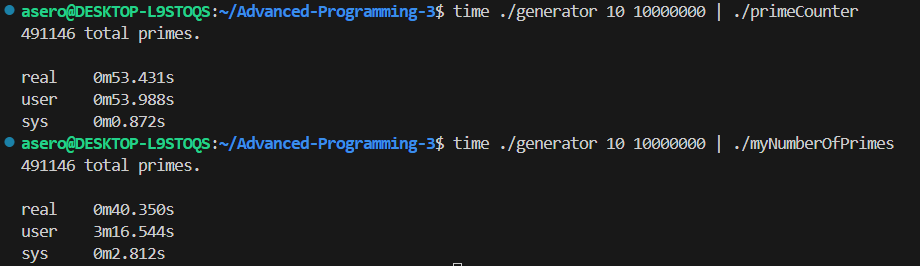
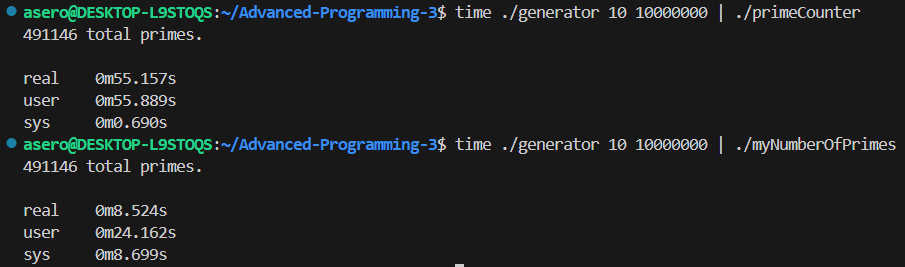
Improved runtime

diff --git a/myNumberOfPrimes.c b/myNumberOfPrimes.c
@@ -1,71 +1,236 @@
+// #include <stdio.h>
+// #include <stdlib.h>
+// #include <pthread.h>
+// #include <unistd.h>
+// #include <stdatomic.h>
+// #include "modularArithmetic.h"
+// #include "primality.h"
+// #include "myNumberOfPrimes.h"
+
+
+// /**
+//  * Thread function to process a range of numbers and count how many are prime.
+//  * Each thread processes its own range and updates a shared prime count.
+//  * 
+//  * @param args Pointer to ThreadData structure containing start, end indices and a pointer to the prime count.
+//  * @return Nothing is returned because the function is designed to handle processing in an infinite loop or until EOF.
+//  */
+// void* thread_function(void* args) {
+//     ThreadData* data = (ThreadData*)args;  // Cast the void pointer back to ThreadData structure pointer.
+//     int number;
+
+//     // Infinite loop to continuously process numbers.
+//     while (1) {
+//         int start = atomic_load(&data->startIndex);  // Load the start index atomically to prevent data races.
+//         int end = atomic_load(&data->endIndex);  // Load the end index atomically.
+
+//         // Iterate over the range from start to end indices.
+//         for (int i = start; i <= end; i++) {
+//             // Read integers from stdin until EOF.
+//             if (scanf("%d", &number) != EOF) {
+//                 // Check if the number is prime and increment the count if it is.
+//                 if (is_prime(number, 4))  // The second parameter '4' stands for the number of checks in Miller-Rabin test.
+//                     (*data->primeCount)++;
+//             } else {
+//                 pthread_exit(NULL);  // Exit the thread if EOF is reached or input fails.
+//             }
+//         }
+
+//         // Update start and end indices for the next segment of numbers.
+//         atomic_store(&data->startIndex, start + THREAD_COUNT * SEGMENT_SIZE);
+//         atomic_store(&data->endIndex, end + THREAD_COUNT * SEGMENT_SIZE);
+//     }
+// }
+
+// int main() {
+//     int answer = 0;  // This variable will hold the total number of prime numbers found.
+//     pthread_t threadIDs[THREAD_COUNT];  // Array to hold thread identifiers.
+//     ThreadData threadData[THREAD_COUNT];  // Array of ThreadData structures for each thread.
+
+//     // Initialize each thread's data and create the threads.
+//     for (int i = 0; i < THREAD_COUNT; i++) {
+//         atomic_init(&threadData[i].startIndex, i * SEGMENT_SIZE + 1);  // Initialize the start index atomically.
+//         atomic_init(&threadData[i].endIndex, (i + 1) * SEGMENT_SIZE);  // Initialize the end index atomically.
+//         threadData[i].primeCount = malloc(sizeof(int));  // Allocate memory for the prime count.
+//         *threadData[i].primeCount = 0;  // Initialize the prime count to zero.
+
+//         // Create each thread passing in the address of the corresponding ThreadData structure.
+//         pthread_create(&threadIDs[i], NULL, thread_function, &threadData[i]);
+//     }
+
+//     // Wait for all threads to complete and aggregate the results.
+//     for (int i = 0; i < THREAD_COUNT; i++) {
+//         pthread_join(threadIDs[i], NULL);  // Wait for thread termination.
+//         answer += *threadData[i].primeCount;  // Add up the prime counts from each thread.
+//         free(threadData[i].primeCount);  // Free the allocated memory for prime counts.
+//     }
+
+//     printf("%d total primes.\n", answer);  // Print the total number of primes found.
+//     return 0;
+    
+// }
+
 #include <stdio.h>
 #include <stdlib.h>
 #include <pthread.h>
 #include <unistd.h>
 #include <stdatomic.h>
-#include "modularArithmetic.h"
-#include "primality.h"
-#include "myNumberOfPrimes.h"
 
+#define NUM_THREADS 5
+#define CHUNK_SIZE 2000000
 
-/**
- * Thread function to process a range of numbers and count how many are prime.
- * Each thread processes its own range and updates a shared prime count.
- * 
- * @param args Pointer to ThreadData structure containing start, end indices and a pointer to the prime count.
- * @return Nothing is returned because the function is designed to handle processing in an infinite loop or until EOF.
- */
-void* thread_function(void* args) {
-    ThreadData* data = (ThreadData*)args;  // Cast the void pointer back to ThreadData structure pointer.
-    int number;
+struct ThreadArgs {
+    atomic_int start; // starting index for the thread
+    atomic_int end;  // ending index for the thread
+    int* local_counter; // local counter for prime numbers found by the thread
+};
 
-    // Infinite loop to continuously process numbers.
-    while (1) {
-        int start = atomic_load(&data->startIndex);  // Load the start index atomically to prevent data races.
-        int end = atomic_load(&data->endIndex);  // Load the end index atomically.
+long long multiply_mod(long long a, long long b, long long mod) // modular multiplication
+{
+    long long result = 0;
+    long long y = a % mod;
+    while (b > 0) 
+    {
+        if (b % 2 == 1)
+            result = (result + y) % mod;
+        y = (y * 2) % mod;
+        b /= 2;
+    }
+    return result % mod;
+}
 
-        // Iterate over the range from start to end indices.
+long long modular_exponentiation(long long base, long long exponent, long long mod) // modular exponentiation
+{
+    long long result = 1;
+    long long y = base;
+    while (exponent > 0) 
+    {
+        if (exponent % 2 == 1)
+            result = (result * y) % mod;
+        y = (y * y) % mod;
+        exponent /= 2;
+    }
+    return result % mod;
+}
+
+/*
+Miller-Rabin Primality Test:
+
+Input: p (number to be tested for primality), iter (number of iterations)
+
+1. If p < 2 or (p != 2 and p % 2 == 0), return 0 (not prime).
+2. Factorize p-1 as 2^s * d, where s is the largest power of 2 dividing p-1 and d is odd.
+3. Repeat iter times:
+   a. Choose a random base 'a' in the range [1, p - 1].
+   b. Compute mod = a^d % p.
+   c. While d is not p-1 and mod is not 1 and mod is not p-1:
+        i. Square mod and double d.
+   d. If mod is not p-1 and d is even, return 0 (not prime).
+
+4. Return 1 (likely prime) after iter iterations with a probability of at least (1 - 0.5^iter) for correctness.
+
+Running Time: O(iter*log(p)) = O(log(p))
+
+*/
+
+int miller_rabin_test(long long p, int iter) 
+{
+    if (p < 2 || (p != 2 && p % 2 == 0)) // check if p is less than 2 or even (excluding 2)
+        return 0;
+    long long s = p - 1;
+    while (s % 2 == 0) 
+    {
+        s /= 2; // divide s by 2 until it becomes an odd number
+    }
+    for (int i = 0; i < iter; i++)
+    {
+        // choose a random base 'a' in the range [1, p - 1]
+        long long a = rand() % (p - 1) + 1;
+
+        long long temp = s;
+        long long mod = modular_exponentiation(a, temp, p);
+
+        // perform modular exponentiation to compute a^(s) % p
+        while (temp != p - 1 && mod != 1 && mod != p - 1) 
+        {
+            // square the result and update the exponent
+            mod = multiply_mod(mod, mod, p);
+            temp *= 2;
+        }
+        // check cond for primality
+        if (mod != p - 1 && temp % 2 == 0)
+            return 0;
+    }
+    return 1; // p is likely prime
+}
+
+_Noreturn void* process_range(void* args) {
+    struct ThreadArgs* threadArgs = (struct ThreadArgs*)args;
+    int* local_counter = (threadArgs->local_counter);
+
+    int num;
+    int start, end;
+
+    while (1) 
+    {
+        start = atomic_load(&(threadArgs->start));
+        end = atomic_load(&(threadArgs->end));
         for (int i = start; i <= end; i++) {
-            // Read integers from stdin until EOF.
-            if (scanf("%d", &number) != EOF) {
-                // Check if the number is prime and increment the count if it is.
-                if (is_prime(number, 4))  // The second parameter '4' stands for the number of checks in Miller-Rabin test.
-                    (*data->primeCount)++;
-            } else {
-                pthread_exit(NULL);  // Exit the thread if EOF is reached or input fails.
+            if (scanf("%d", &num) != EOF) 
+            {
+                if (miller_rabin_test(num, 4)) // (1 − 0.0625) = 0.9375% 
+                    (*local_counter)++;
+            } 
+            else 
+            {
+                pthread_exit(NULL); // end of input or error condition
             }
         }
 
-        // Update start and end indices for the next segment of numbers.
-        atomic_store(&data->startIndex, start + THREAD_COUNT * SEGMENT_SIZE);
-        atomic_store(&data->endIndex, end + THREAD_COUNT * SEGMENT_SIZE);
+        // printf("Thread %ld processed range [%d, %d], local_counter = %d\n", pthread_self(), start, end, *local_counter);
+
+        // update start and end values for the next iteration
+        atomic_store(&(threadArgs->start), start + NUM_THREADS * CHUNK_SIZE);
+        atomic_store(&(threadArgs->end), end + NUM_THREADS * CHUNK_SIZE);
     }
+
+    pthread_exit(NULL);
 }
 
-int main() {
-    int answer = 0;  // This variable will hold the total number of prime numbers found.
-    pthread_t threadIDs[THREAD_COUNT];  // Array to hold thread identifiers.
-    ThreadData threadData[THREAD_COUNT];  // Array of ThreadData structures for each thread.
+int main() 
+{
+    int total_primes = 0;
+    pthread_t threads[NUM_THREADS];
+    struct ThreadArgs threadArgs[NUM_THREADS];
 
-    // Initialize each thread's data and create the threads.
-    for (int i = 0; i < THREAD_COUNT; i++) {
-        atomic_init(&threadData[i].startIndex, i * SEGMENT_SIZE + 1);  // Initialize the start index atomically.
-        atomic_init(&threadData[i].endIndex, (i + 1) * SEGMENT_SIZE);  // Initialize the end index atomically.
-        threadData[i].primeCount = malloc(sizeof(int));  // Allocate memory for the prime count.
-        *threadData[i].primeCount = 0;  // Initialize the prime count to zero.
+    int total_numbers;
 
-        // Create each thread passing in the address of the corresponding ThreadData structure.
-        pthread_create(&threadIDs[i], NULL, thread_function, &threadData[i]);
+    for (int i = 0; i < NUM_THREADS; i++) 
+    {
+        // init start and end values for each thread
+        atomic_init(&(threadArgs[i].start), i * CHUNK_SIZE + 1);
+        atomic_init(&(threadArgs[i].end), (i + 1) * CHUNK_SIZE);
+
+        // allocate memory for local counter
+        threadArgs[i].local_counter = (int*)malloc(sizeof(int));
+        *(threadArgs[i].local_counter) = 0;
+
+        // create threads and pass args
+        pthread_create(&threads[i], NULL, process_range, &threadArgs[i]);
     }
 
-    // Wait for all threads to complete and aggregate the results.
-    for (int i = 0; i < THREAD_COUNT; i++) {
-        pthread_join(threadIDs[i], NULL);  // Wait for thread termination.
-        answer += *threadData[i].primeCount;  // Add up the prime counts from each thread.
-        free(threadData[i].primeCount);  // Free the allocated memory for prime counts.
+    // wait for threads to finish and accumulate results
+    for (int i = 0; i < NUM_THREADS; i++) 
+    {
+        pthread_join(threads[i], NULL);
+        total_primes += *(threadArgs[i].local_counter);
+
+        // free allocated memory for local counter
+        free(threadArgs[i].local_counter);
     }
 
-    printf("%d total primes.\n", answer);  // Print the total number of primes found.
+    // print the result
+    printf("%d total primes.\n", total_primes);
+
     return 0;
 }
-

diff --git a/myNumberOfPrimes.h b/myNumberOfPrimes.h
@@ -4,8 +4,8 @@
 #include <stdatomic.h>  // Include for atomic types
 
 // Constants used by multiple files or that configure the module's behavior
-#define THREAD_COUNT 5
-#define SEGMENT_SIZE 2000000
+#define THREAD_COUNT 4
+#define SEGMENT_SIZE 2500000
 
 // ThreadData structure to hold thread-specific data
 typedef struct {
